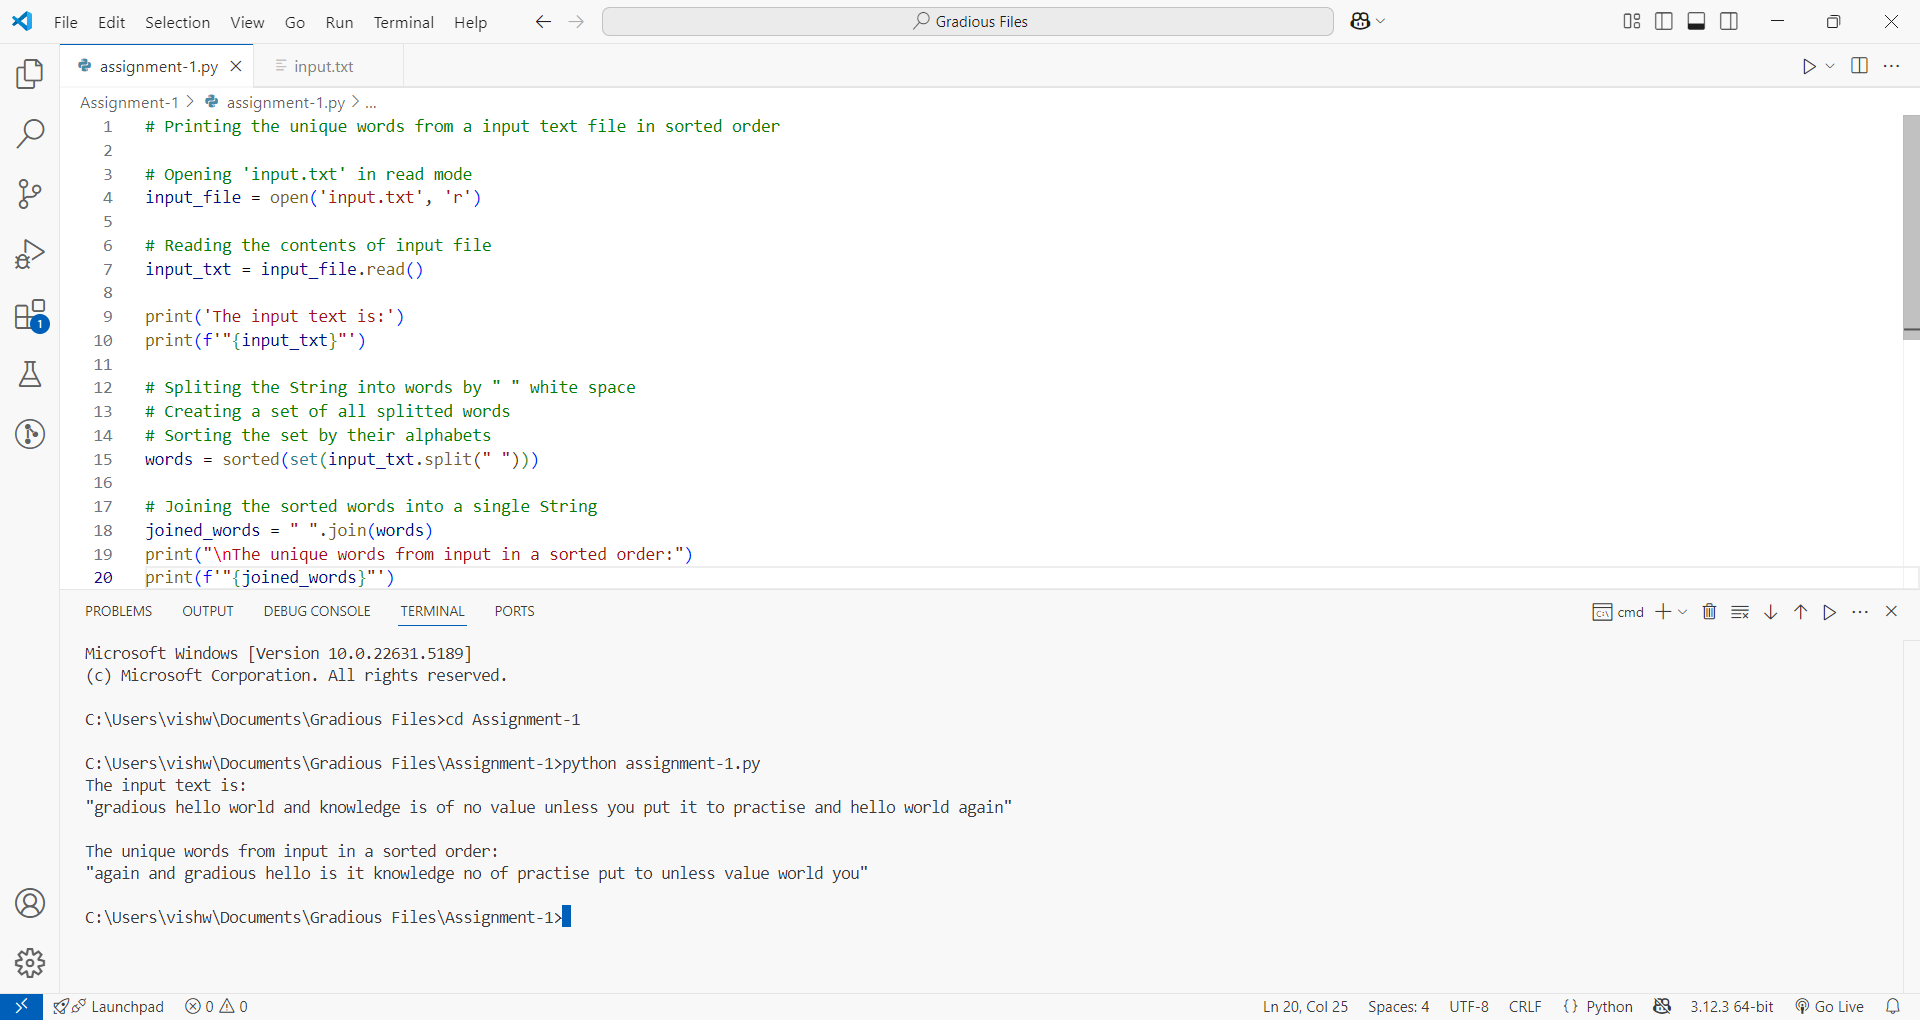
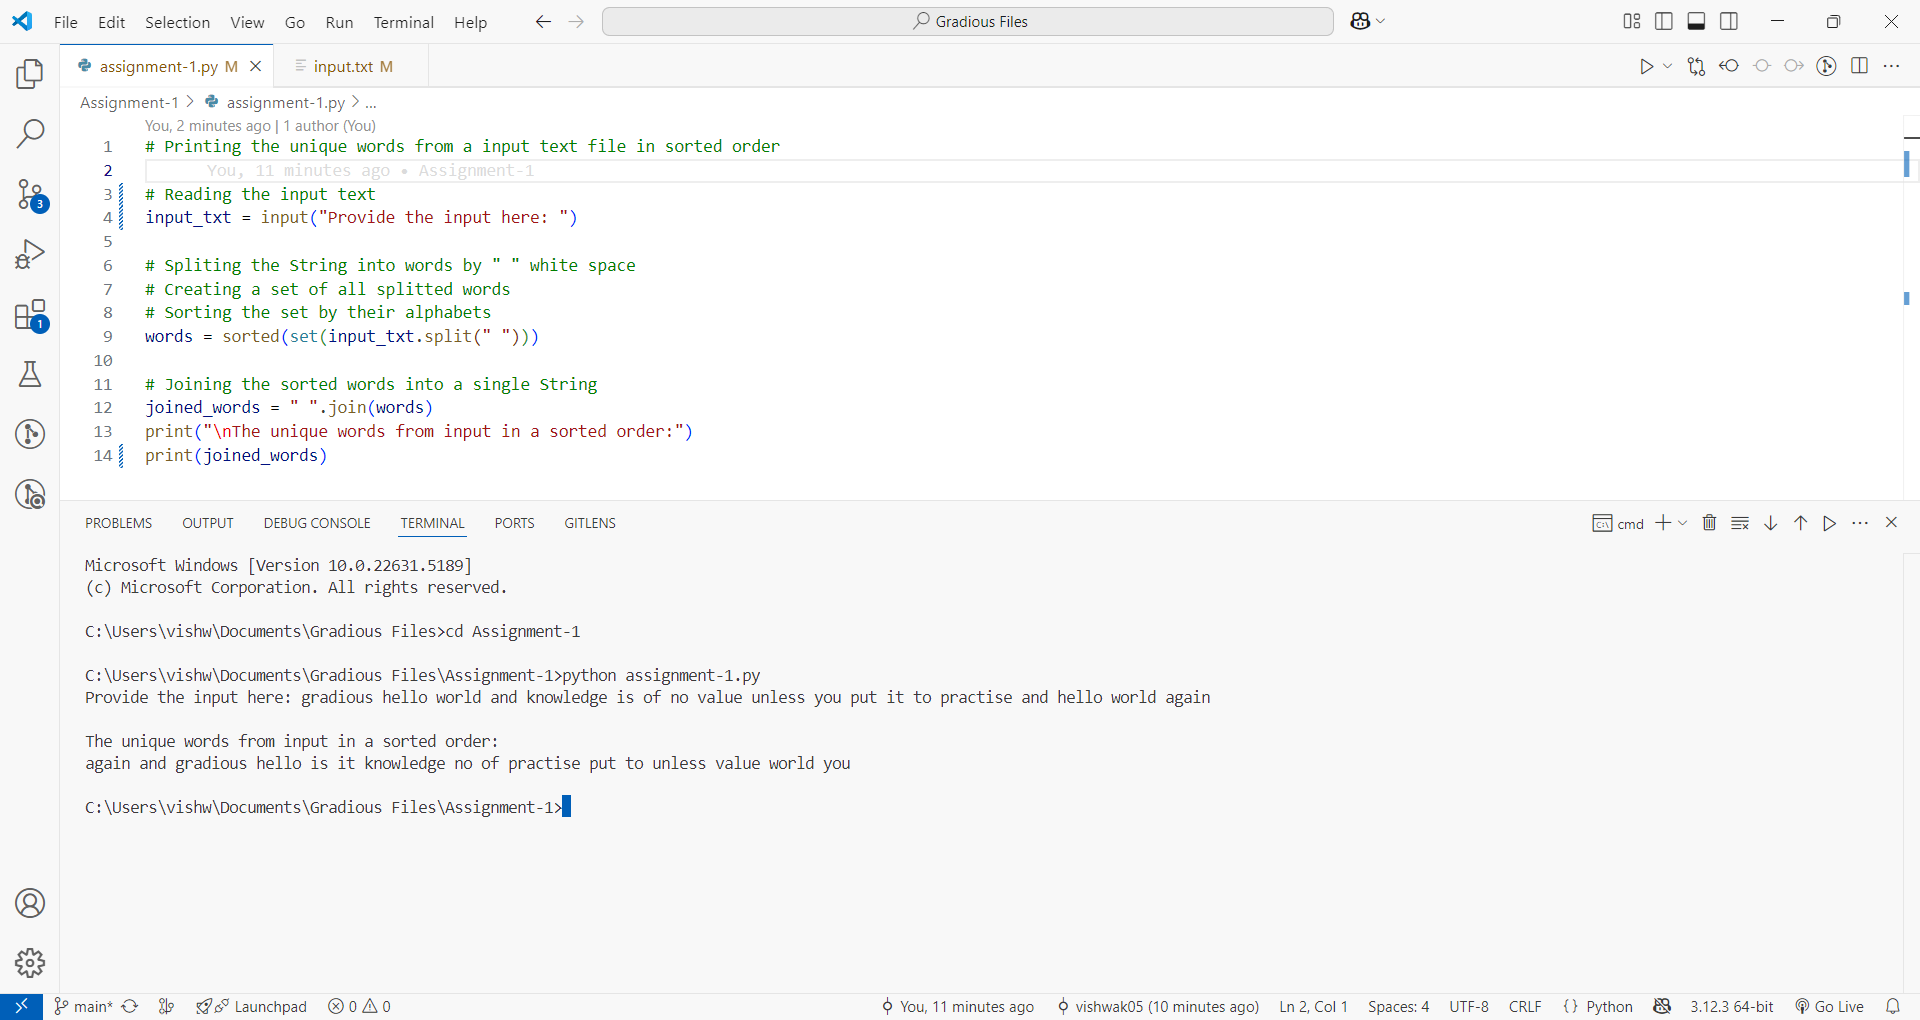
Assignment-1

diff --git a/Assignment-1/assignment-1.py b/Assignment-1/assignment-1.py
@@ -1,13 +1,7 @@
 # Printing the unique words from a input text file in sorted order
 
-# Opening 'input.txt' in read mode
-input_file = open('input.txt', 'r')
-
-# Reading the contents of input file
-input_txt = input_file.read()
-
-print('The input text is:')
-print(f'"{input_txt}"')
+# Reading the input text
+input_txt = input("Provide the input here: ")
 
 # Spliting the String into words by " " white space
 # Creating a set of all splitted words
@@ -17,7 +11,4 @@ words = sorted(set(input_txt.split(" ")))
 # Joining the sorted words into a single String
 joined_words = " ".join(words)
 print("\nThe unique words from input in a sorted order:")
-print(f'"{joined_words}"')
-
-# Closing the input text file
-input_file.close()
+print(joined_words)
